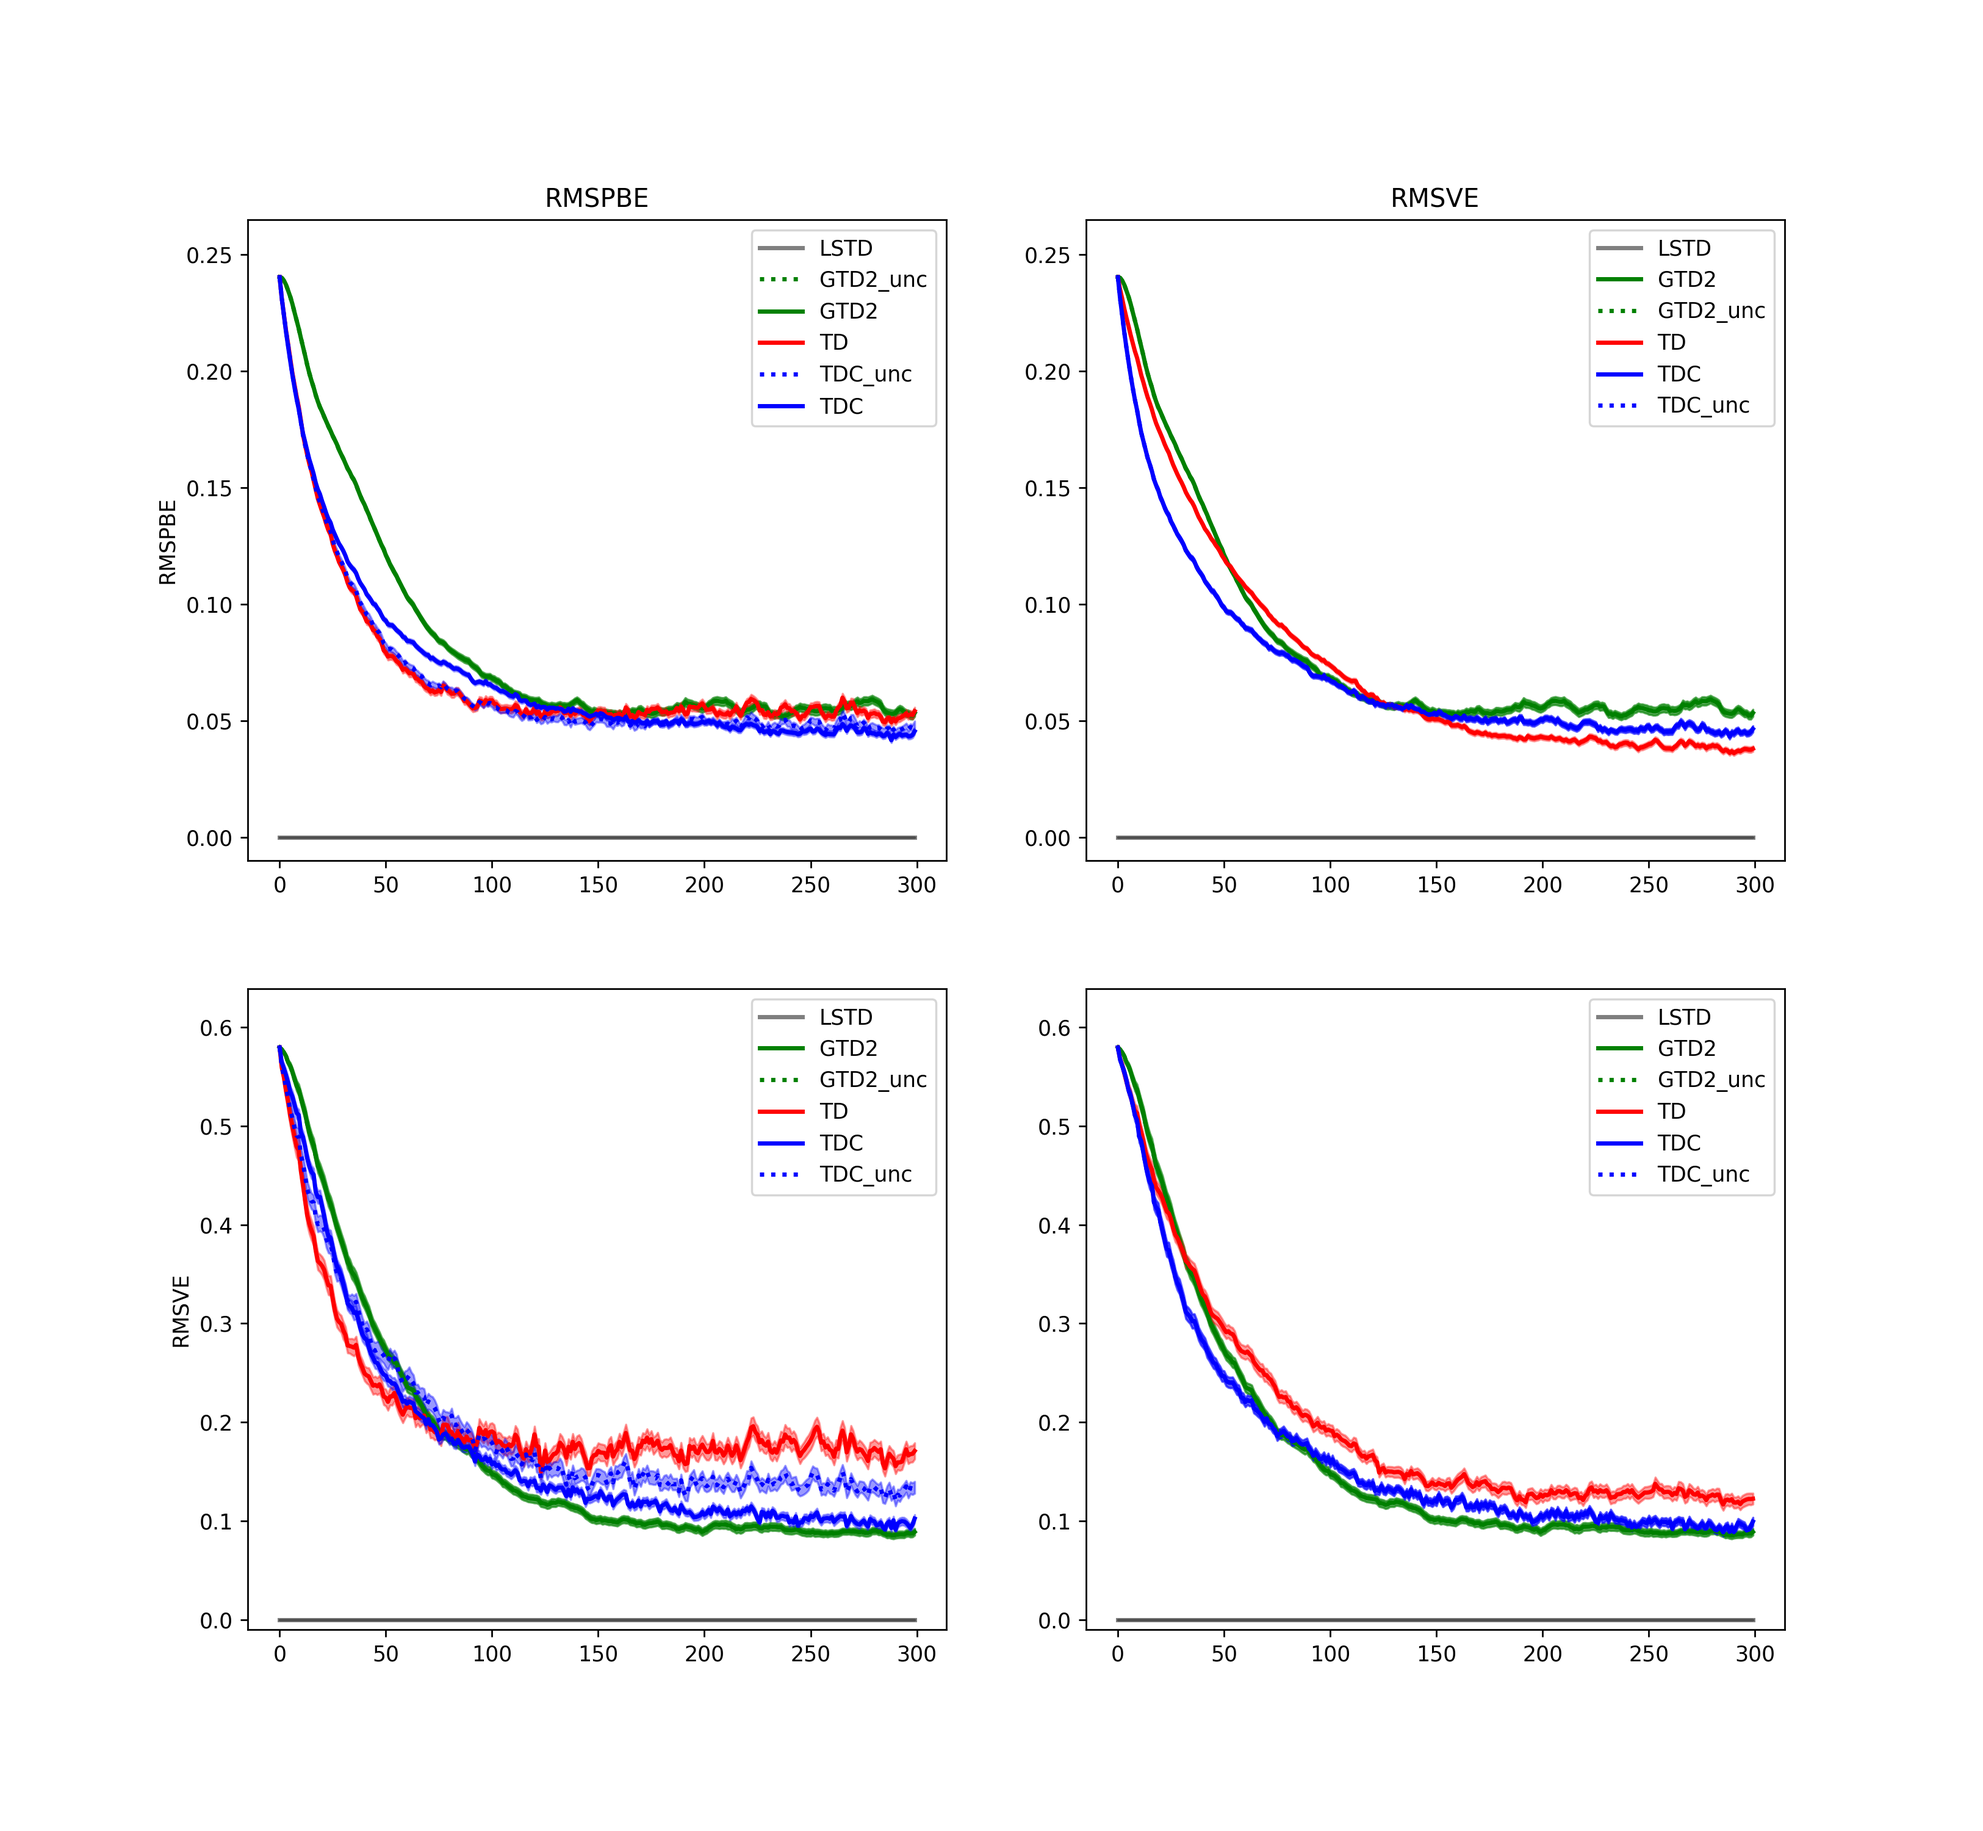
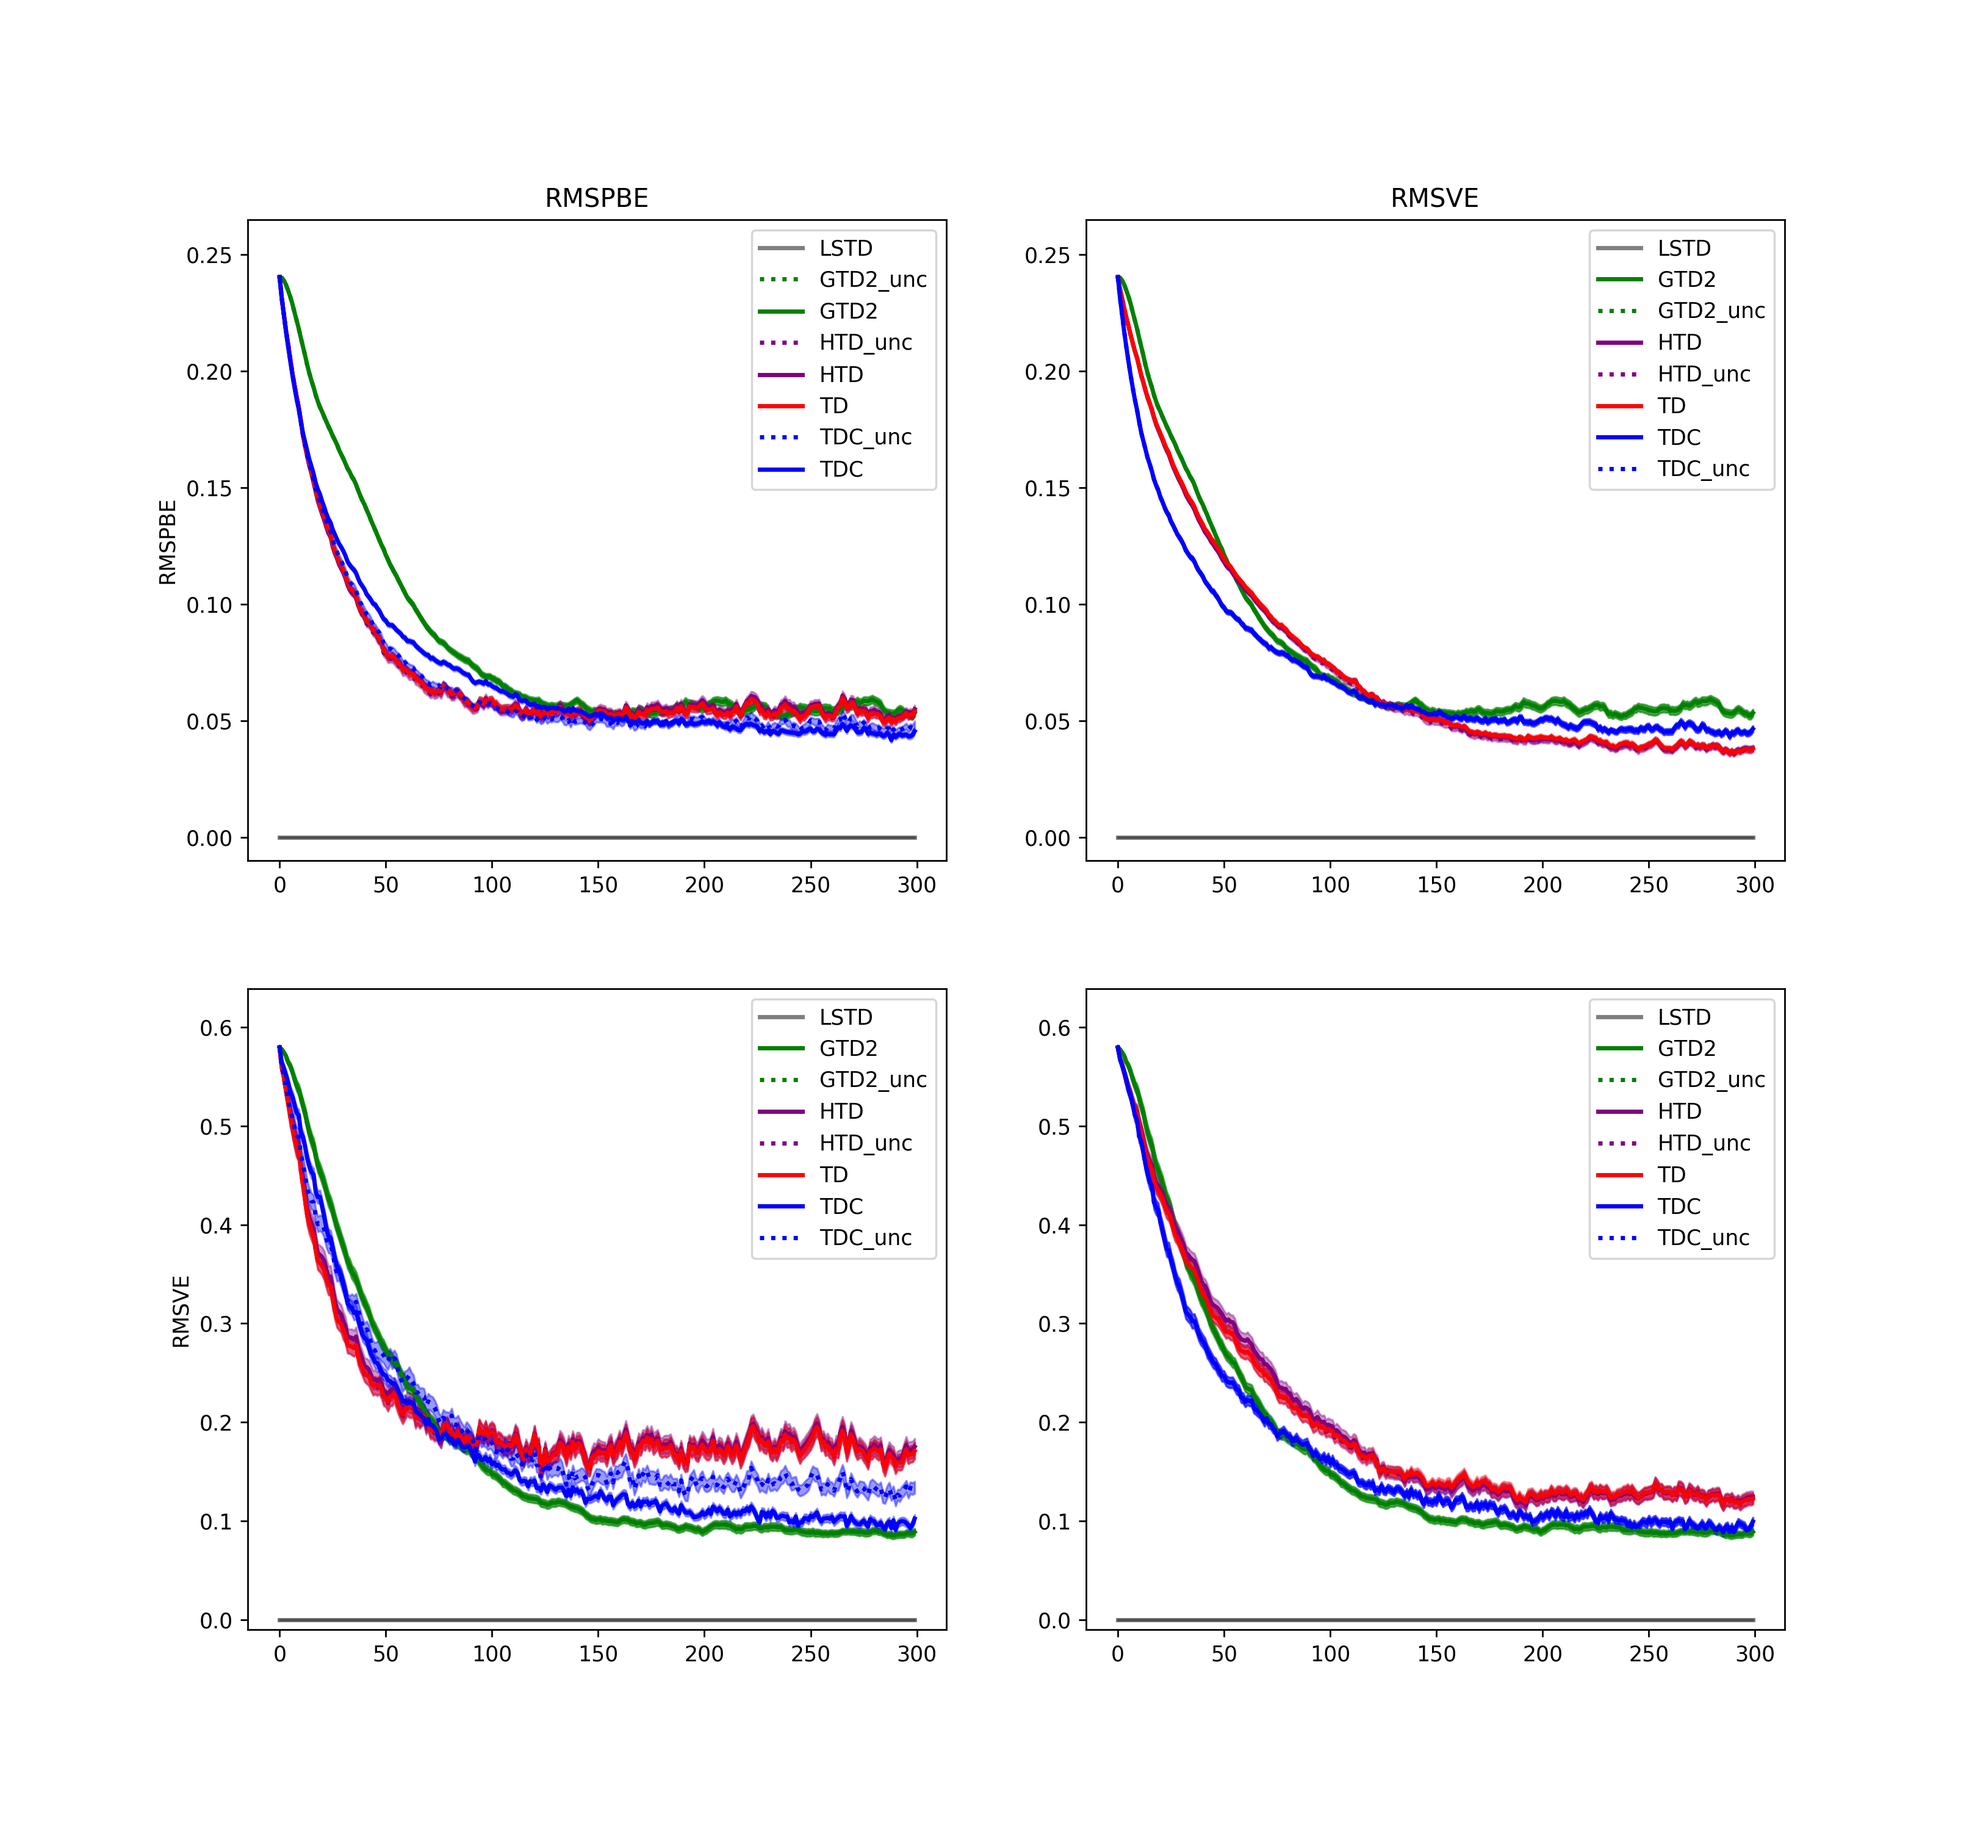
add new results from stepsize experiments

diff --git a/experiments/stepsizes/slice_plots.py b/experiments/stepsizes/slice_plots.py
@@ -1,0 +1,15 @@
+import glob
+import subprocess
+
+problems = glob.glob('experiments/stepsizes/*')
+
+def last(path):
+    parts = path.split('/')
+    return parts[len(parts) - 1]
+
+problems = [p for p in problems if '.' not in last(p) and last(p) != 'plots']
+
+for problem in problems:
+    experiments = problem + '/**/*.json'
+
+    subprocess.run(f'python experiments/stepsizes/slice_combs.py {experiments}', stdout=subprocess.PIPE, shell=True)

diff --git a/experiments/stepsizes/slice_combs.py b/experiments/stepsizes/slice_combs.py
@@ -13,7 +13,7 @@ from src.utils.arrays import first
 
 from src.utils.path import fileName, up
 
-stepsize = 'constant'
+stepsize = 'schedule'
 
 def generatePlot(exp_paths):
     f, axes = plt.subplots(2,2)
@@ -207,6 +207,8 @@ if __name__ == "__main__":
         paths.append(exp_path)
 
     generatePlot(paths)
+
+    # plt.show()
 
     exp_name = fileName(up(exp.getExperimentName()))
     save_path = f'experiments/stepsizes/plots'

diff --git a/experiments/stepsizes/side_by_side_rmsve.py b/experiments/stepsizes/side_by_side_rmsve.py
@@ -24,7 +24,7 @@ error = 'rmspbe'
 name = 'all'
 problems = ['SmallChainTabular5050', 'SmallChainTabular4060', 'SmallChainInverted5050', 'SmallChainInverted4060', 'SmallChainDependent5050', 'SmallChainDependent4060', 'Boyan', 'Baird']
 
-algorithms = ['gtd2', 'gtd2_h', 'tdc', 'tdc_h', 'td']
+algorithms = ['gtd2', 'gtd2_h', 'tdc', 'tdc_h', 'htd', 'td']
 
 if error == 'rmsve':
     errorfile = 'errors_summary.npy'
